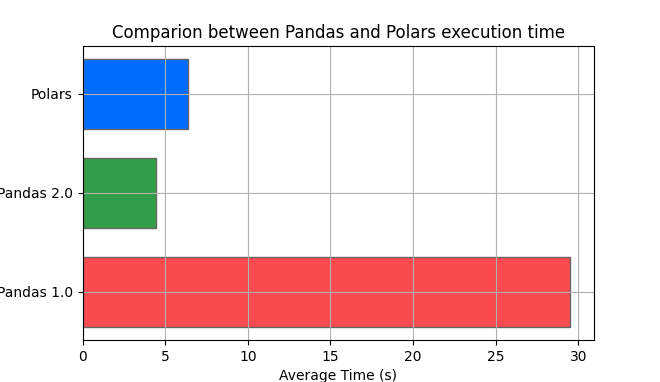
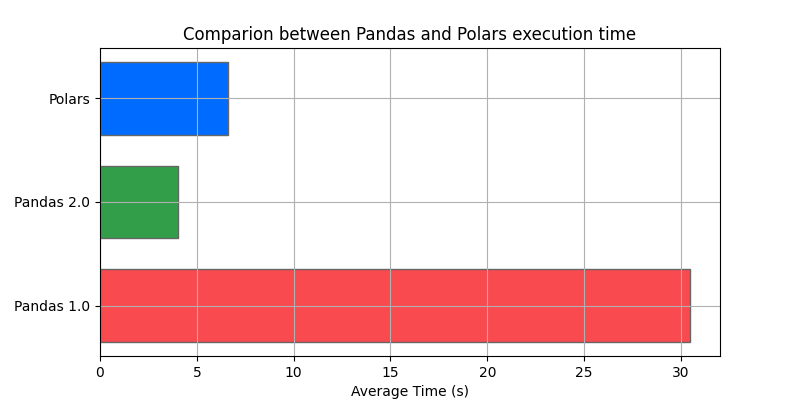
updated the graph dimensions

diff --git a/graph_plot.py b/graph_plot.py
@@ -4,7 +4,7 @@ def comparison_plot(pd_time, pyarrow_time, pl_time, title, unit = 's'):
     name = ['Pandas 1.0','Pandas 2.0','Polars']
     values = [pd_time, pyarrow_time, pl_time]
     
-    plt.subplots(figsize=(6,3))
+    plt.subplots(figsize=(8,4))
     plt.grid()
     plt.rc('axes', axisbelow=True)
     plt.barh(name, values, color=['#f84a4f','#339e49', '#006cff'], edgecolor='#666', height=.7)
